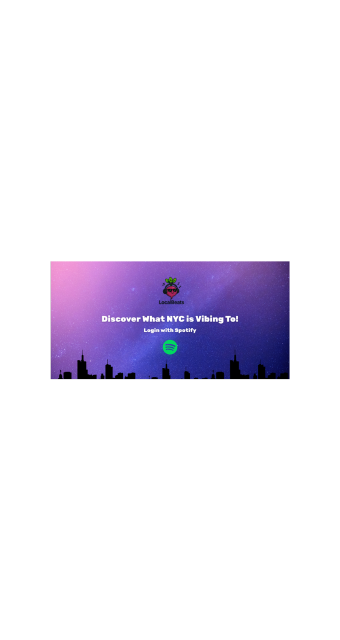
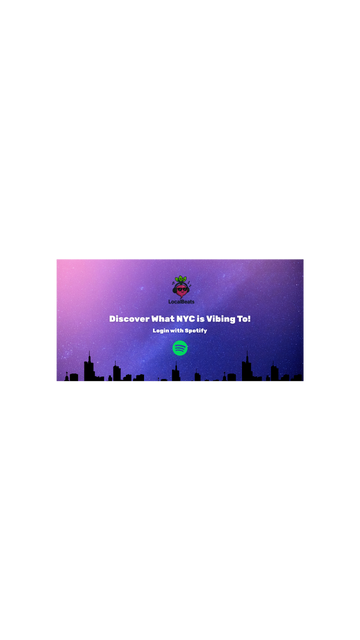
fixed- img size

diff --git a/dist/service-worker.js b/dist/service-worker.js
@@ -1,2 +1,2 @@
-if(!self.define){let e,i={};const n=(n,r)=>(n=new URL(n+".js",r).href,i[n]||new Promise((i=>{if("document"in self){const e=document.createElement("script");e.src=n,e.onload=i,document.head.appendChild(e)}else e=n,importScripts(n),i()})).then((()=>{let e=i[n];if(!e)throw new Error(`Module ${n} didn’t register its module`);return e})));self.define=(r,s)=>{const c=e||("document"in self?document.currentScript.src:"")||location.href;if(i[c])return;let o={};const f=e=>n(e,c),d={module:{uri:c},exports:o,require:f};i[c]=Promise.all(r.map((e=>d[e]||f(e)))).then((e=>(s(...e),o)))}}define(["./workbox-1f84e78b"],(function(e){"use strict";self.skipWaiting(),e.clientsClaim(),e.precacheAndRoute([{url:"/icons/icon-192x192.png",revision:"ce6c5085ff893654253568ef478f70cc"},{url:"/icons/icon-512x512.png",revision:"6eb32ee3a8b83192c8990766cfa0e1e8"},{url:"/images/15bf0d27b1d9d38f5581.png",revision:null},{url:"/images/94fc7a4983c22bb78953.png",revision:null},{url:"/images/b50b7cfc5063d5acbcb4.png",revision:null},{url:"/images/ef3dfda9668f59f80dbd.png",revision:null},{url:"/index.html",revision:"21d0d7ec041f588ea886153a1c99063e"},{url:"/main.js",revision:"64cbb2e259c6b018f2a7beb9d19a6da1"},{url:"/main.js.LICENSE.txt",revision:"38273a85a8d2c7a8448451d8d5048cf8"},{url:"/manifest.json",revision:"618cf2b795e72add1e2011dc262a2f84"},{url:"/screenshots/narrow-preview.png",revision:"c6865af516f86e0b5322ab58c31a0b3e"},{url:"/screenshots/wide-preview.png",revision:"b5d4adb6c2a2907f3f4425bada81e21a"}],{})}));
+if(!self.define){let e,i={};const n=(n,r)=>(n=new URL(n+".js",r).href,i[n]||new Promise((i=>{if("document"in self){const e=document.createElement("script");e.src=n,e.onload=i,document.head.appendChild(e)}else e=n,importScripts(n),i()})).then((()=>{let e=i[n];if(!e)throw new Error(`Module ${n} didn’t register its module`);return e})));self.define=(r,s)=>{const o=e||("document"in self?document.currentScript.src:"")||location.href;if(i[o])return;let c={};const d=e=>n(e,o),f={module:{uri:o},exports:c,require:d};i[o]=Promise.all(r.map((e=>f[e]||d(e)))).then((e=>(s(...e),c)))}}define(["./workbox-1f84e78b"],(function(e){"use strict";self.skipWaiting(),e.clientsClaim(),e.precacheAndRoute([{url:"/icons/icon-192x192.png",revision:"ce6c5085ff893654253568ef478f70cc"},{url:"/icons/icon-512x512.png",revision:"6eb32ee3a8b83192c8990766cfa0e1e8"},{url:"/images/15bf0d27b1d9d38f5581.png",revision:null},{url:"/images/94fc7a4983c22bb78953.png",revision:null},{url:"/images/b50b7cfc5063d5acbcb4.png",revision:null},{url:"/images/ef3dfda9668f59f80dbd.png",revision:null},{url:"/index.html",revision:"21d0d7ec041f588ea886153a1c99063e"},{url:"/main.js",revision:"64cbb2e259c6b018f2a7beb9d19a6da1"},{url:"/main.js.LICENSE.txt",revision:"38273a85a8d2c7a8448451d8d5048cf8"},{url:"/manifest.json",revision:"618cf2b795e72add1e2011dc262a2f84"},{url:"/screenshots/narrow-preview.png",revision:"2bcd92d25924f7e4d83eaa86d361874b"},{url:"/screenshots/wide-preview.png",revision:"b5d4adb6c2a2907f3f4425bada81e21a"}],{})}));
 //# sourceMappingURL=service-worker.js.map
